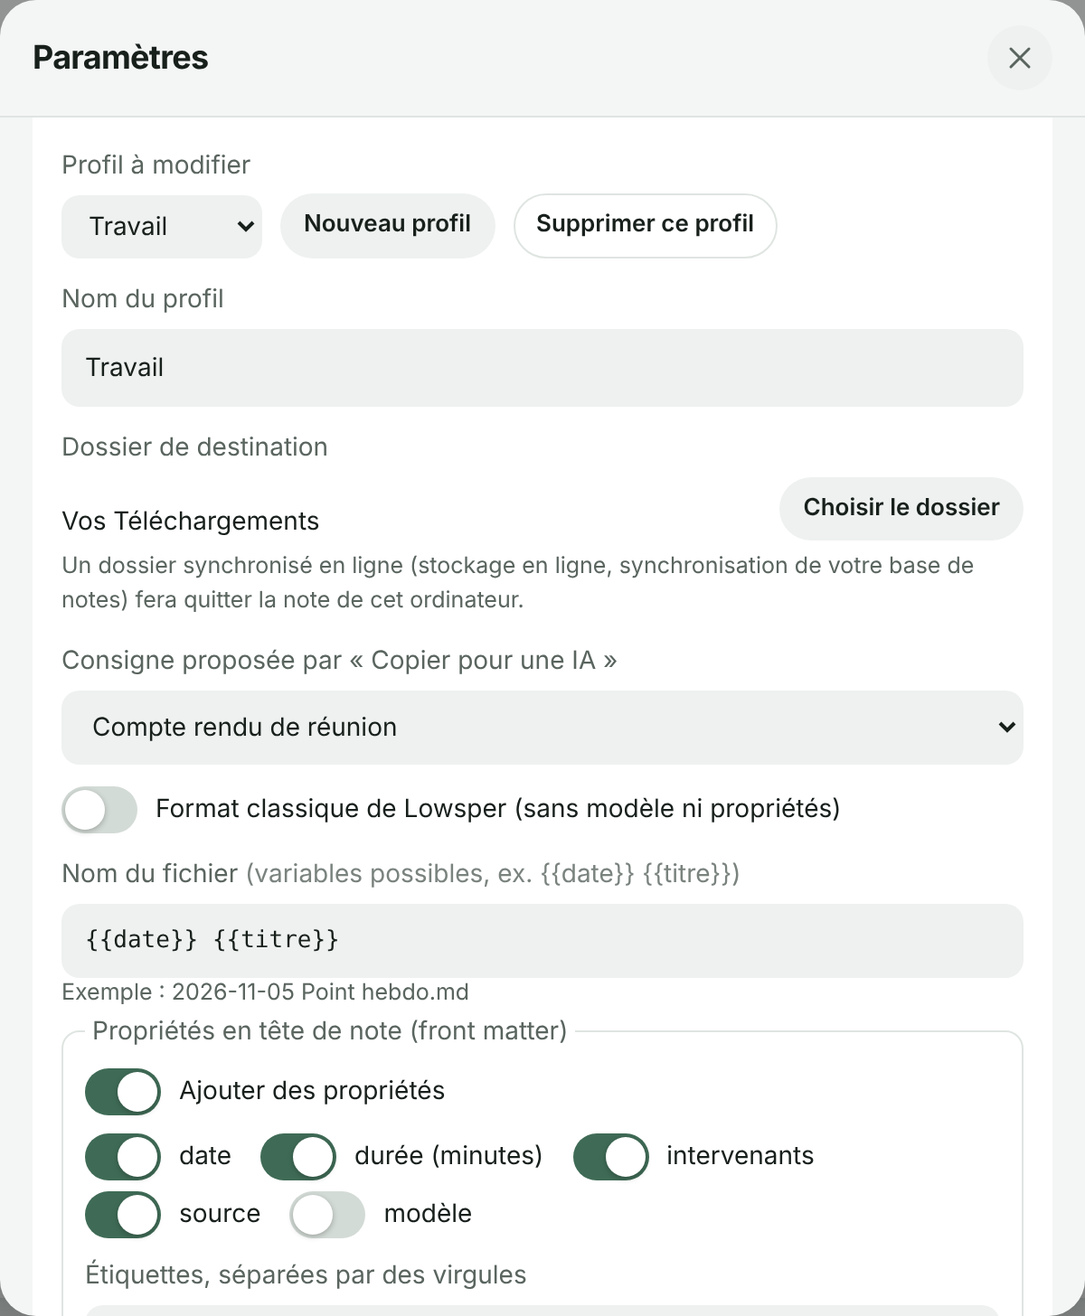
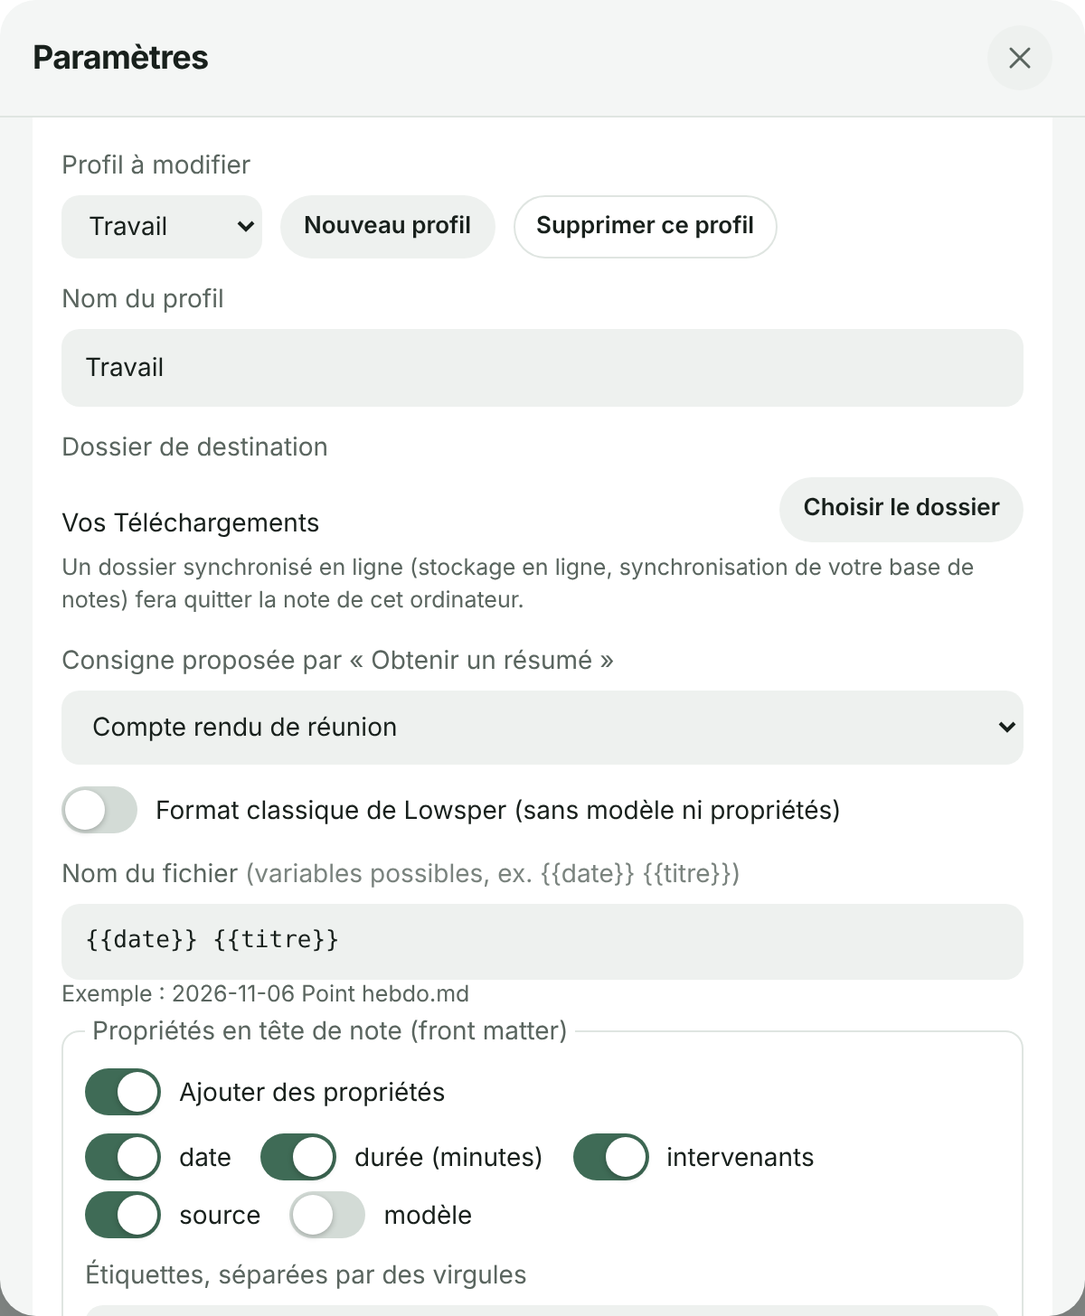
docs(fin): décision §29, README, CHANGELOG, captures et plan des lots (R6 livré)
Claude-Session: https://claude.ai/code/session_01G6rbDCjDTK12PiGGVxbWZ9

diff --git a/decision.md b/decision.md
@@ -1768,3 +1768,118 @@ gestionnaire de fenêtres, sans l'émulation de taille de Playwright :
   longues ; il est choisi avec une large marge.
 - Le contrôle d'état se met à jour dix fois par seconde, comme les barres de niveau avant lui ; il
   n'écrit dans la page que ce qui change.
+
+## 29. Refonte, lot R6 : fin de réunion et consignes réécrites
+
+**Contexte.** L'écran de fin empilait un résumé, quatre boutons (télécharger, copier, une liste
+déroulante de consignes, « Copier pour une IA »), un panneau « Intervenants détectés », la
+correction de mots dépliable, deux boutons de sortie et l'aperçu du Markdown brut. La refonte
+(`docs/refonte.md` §6, maquette validée « Fin de réunion ») le met en deux colonnes. Les consignes
+fournies, trois phrases chacune, deviennent un prompt système structuré (§7).
+
+**Écran de fin.**
+- **À gauche, le texte lisible** : titre, « Aujourd'hui, 10:02 · 12 minutes · 5 personnes », puis
+  les répliques (étiquette, heure, texte). Plus de Markdown brut. Le nombre de personnes n'est
+  affiché que si les voix ont été distinguées ; sinon il est inconnu, et il est omis.
+- **Renommage sur les répliques** : un clic sur « Intervenant 2 » le remplace par un champ ; la
+  saisie change le nom sur toutes ses répliques et réécrit la note du dossier (même délai de
+  1,5 s qu'avant). Entrée ou un clic ailleurs valide, Échap annule. La mémoire des voix apprend le
+  nom à la validation, comme le faisait le panneau. « Vous » et « Participant » ne sont pas des
+  boutons : ce ne sont pas des voix distinguées. Pendant une saisie, le texte n'est jamais
+  redessiné (le champ serait perdu) ; il l'est à la fin si une version précise d'un passage est
+  arrivée entre-temps. À la fin d'une saisie, l'étiquette revient à sa place sans redessiner le
+  texte, sinon un clic sur une autre étiquette, qui a provoqué la fin de la saisie, serait perdu.
+- **Défaut trouvé en relecture et corrigé** : chaque frappe du nom marquait le texte « à
+  redessiner », qui l'était donc juste après la saisie, entre l'appui et le relâchement du clic
+  sur l'étiquette suivante : ce clic était perdu. La saisie d'un nom ne demande plus de rendu
+  complet (seules les étiquettes changent). Le test de bout en bout ne reproduisait pas le défaut
+  avec un clic instantané ; avec un clic de 120 ms entre appui et relâchement, comme un clic
+  humain, il échoue sur l'ancien code et passe sur le nouveau (vérifié dans les deux sens).
+- **Panneau « Intervenants détectés » retiré** (choix du mainteneur). Il disait aussi le temps de
+  parole et un extrait de chaque voix ; ce n'est plus affiché. Le badge « reconnu » devient
+  l'infobulle de l'étiquette.
+- **À droite** : la carte « Note enregistrée » (où, et « Vos modifications y sont ajoutées »), qui
+  dit « Enregistrement de la note… » tant que l'écriture n'est pas finie et garde le bouton
+  « Enregistrer aussi dans le dossier » quand l'accord du navigateur manque. Puis « Et
+  maintenant ? » : « Obtenir un résumé », la consigne choisie et « Voir ce qui est copié »,
+  « Copier le texte », « Enregistrer une copie ». Puis « Corriger un mot mal reconnu », qui ouvre
+  la correction existante dans une fenêtre, et « Nouvelle réunion ».
+- **« Nouvelle réunion » ramène à l'accueil** (choix du mainteneur, comme la maquette).
+  « Démarrer la réunion suivante » disparaît ; enchaîner sans arrêter reste possible pendant la
+  réunion (« Commencer une nouvelle réunion sans arrêter », §28).
+- **Choix de la consigne** : le menu commun (`menu.js`, §27) remplace la liste déroulante native.
+  Par défaut, la consigne du profil ; un autre choix ne vaut que pour cet écran.
+- **« Voir ce qui est copié »** montre le texte produit par la même fonction que la copie : ce qui
+  est affiché est exactement ce qui part dans le presse-papiers (vérifié par le test de bout en
+  bout).
+- Restent, à leur place dans la nouvelle disposition : avis des passages rapides et des passages
+  non transcrits (en tête du texte), réunions précédentes de la session, journal technique.
+
+**Consignes réécrites comme un prompt système.**
+- **Compte rendu de réunion** : le texte anglais est celui de `docs/refonte.md` §7, au caractère
+  près. Un test unitaire relit le document et compare. Le français en est la traduction, avec les
+  libellés de la note française (« Vous », « Intervenant 1 »).
+- **Synthèse d'appel et liste d'actions** : même structure, même contexte et mêmes règles ; le rôle
+  et les sections changent (objet de l'appel, points clés, engagements, prochaines étapes ;
+  tableau action, responsable, échéance, source avec l'heure). Pour la liste d'actions, « Utilise
+  des listes à puces » est retiré des règles, puisqu'on demande un tableau. Le contexte de la
+  synthèse d'appel dit « un appel » au lieu d'« une réunion ». Un test vérifie que contexte et
+  règles sont identiques d'une consigne à l'autre.
+- **Langue** : chaque consigne demande la langue principale du transcript (l'ancienne demandait
+  « en français » ou « in English »). Les consignes restent proposées dans la langue de
+  l'interface.
+- **Place de la note** : le texte se termine par `# Transcript` puis `{{note}}`. La note, elle, ne
+  change pas.
+
+**Rétrocompatibilité des consignes (règle de §25 prolongée).**
+- Un texte enregistré est « non modifié » s'il est identique à un texte fourni actuel, dans l'une
+  ou l'autre langue, **ou à un texte fourni d'une version précédente**. Les anciens textes (3.3.0
+  à 3.5.0 en français, lot R2 en anglais) sont gardés dans `notes.js` (`LEGACY_PROMPTS`), jamais
+  affichés. Mesure : comparés par programme au code de la 3.3.0 (`git show 5a5d736`) et à celui
+  d'avant ce lot, les six textes sont identiques au caractère près.
+- Un texte non modifié passe donc au prompt système ; un texte modifié, même d'un caractère, est
+  gardé tel quel (test unitaire). Le format de `app/reglages.txt` ne change pas : aucune migration.
+- Les consignes personnelles ne sont jamais touchées.
+
+**La note en français ne change pas.** `transcript.js` n'est pas modifié, et `notes.js` ne l'est
+que dans la partie des consignes. Mesure : les tests unitaires d'avant ce lot, lancés sur le
+nouveau code, passent tous (59) sauf les trois qui vérifiaient l'ancien texte des consignes.
+
+**Libellé.** « Copier pour une IA » devient « Obtenir un résumé » partout : paramètres (« Consigne
+proposée par « Obtenir un résumé » »), sonde de l'IA intégrée, README, `SECURITY.md`.
+
+**Tests.**
+- Unitaires : structure des six consignes (titres dans l'ordre, transcript à la fin), égalité avec
+  le texte de la spécification, anciens textes reconnus, texte modifié gardé.
+- `npm run test:e2e-notes` : deux colonnes, texte sans Markdown brut, « Note enregistrée » avec
+  l'emplacement, consigne du profil proposée, copie (prompt système de synthèse d'appel puis la
+  note), « Copié », « Voir ce qui est copié » identique au presse-papiers, Échap, autre consigne
+  par le menu au clavier, renommage annulé par Échap puis validé par Entrée sur toutes les
+  répliques, note réécrite avec le lien `[[Claire]]`, « Nouvelle réunion » vers l'accueil.
+- `npm run test:e2e` : correction d'un mot dans la nouvelle fenêtre, texte de l'écran mis à jour ;
+  nom saisi puis clic direct sur une autre voix (défaut ci-dessus).
+- `npm run test:i18n` : textes de la page identiques au catalogue, aucun français en anglais.
+- Captures `fin.png`, `fin-sombre.png` et `profils.png` régénérées.
+
+**Charge du moteur** (`npm run bench`, 4 cœurs, Whisper small, même machine). Le chemin du direct
+n'est pas modifié ; mesure faite quand même, le code d'avant ce lot remis en place le temps d'un
+passage :
+
+| Passage de 25 s, Whisper small | Avant | Après |
+|---|---|---|
+| Durée (RTF) | 12 854 ms (0,514) | 12 631 ms (0,505) |
+| Second passage | 12 603 ms | 12 760 ms |
+
+  Écarts de l'ordre du bruit de la machine, dans les deux sens.
+
+**Limites.**
+- Rendu vérifié dans Chromium (Playwright) seulement, pas dans Edge ni Chrome du commerce.
+- La traduction française des consignes et la qualité des réponses obtenues avec elles n'ont pas
+  été évaluées sur un assistant d'IA : Lowsper n'en appelle aucun. Non vérifié.
+- Le texte de l'écran de fin est redessiné en entier à chaque correction. Mesure dans Chromium,
+  sur une réunion fictive de 1 h 15 (469 répliques, une toutes les 8 s) : un changement de langue
+  avec l'écran de fin affiché, mise en page comprise, prend 30 à 49 ms (médiane de 5 passages, deux
+  essais), contre 2 ms sans l'écran de fin. Imperceptible pour un clic, mais à surveiller si l'on
+  redessinait à chaque frappe : la saisie d'un nom ne redessine donc que les étiquettes.
+- Les guillemets « » du texte anglais viennent de la spécification validée ; le reste de
+  l'interface anglaise utilise “ ”.

diff --git a/README.md b/README.md
@@ -98,13 +98,22 @@ réunion qui travaille hors ligne.
    Le texte en direct est masqué par défaut : l'interrupteur « Afficher le texte pendant la
    réunion » l'affiche (choix gardé). « Commencer une nouvelle réunion sans arrêter » enchaîne
    sur la suivante sans repartager l'écran.
-7. En fin de réunion, cliquez sur **« Terminer »** (carré rouge). Le fichier `.md` est enregistré
-   dans vos Téléchargements (ou le dossier de votre profil). Nommez les intervenants si vous le
-   souhaitez ; **« Copier pour une IA »** copie la note précédée de la consigne choisie (compte
-   rendu de réunion, synthèse d'appel, liste d'actions, ou la vôtre), à coller dans l'assistant
-   de votre choix.
+7. En fin de réunion, cliquez sur **« Terminer »** (carré rouge). La note est enregistrée dans vos
+   Téléchargements (ou le dossier de votre profil) : la carte « Note enregistrée » dit où. L'écran
+   de fin montre le texte de la réunion à gauche, lisible. Pour nommer un intervenant, cliquez sur
+   son étiquette (« Intervenant 2 ») et tapez son nom : il change sur toutes ses répliques et dans
+   la note (Entrée valide, Échap annule). À droite, « Et maintenant ? » :
+   - **« Obtenir un résumé »** copie une consigne pour l'IA suivie de la note, à coller dans
+     l'assistant de votre choix. La consigne (compte rendu de réunion, synthèse d'appel, liste
+     d'actions, ou la vôtre) se choisit juste en dessous, et **« Voir ce qui est copié »** montre
+     le texte exact ;
+   - **« Copier le texte »** copie la note seule ;
+   - **« Enregistrer une copie »** la télécharge.
 
-![Écran de fin d'une réunion fictive : intervenants nommés, aperçu du transcript Markdown](docs/images/fin.png)
+   « Corriger un mot mal reconnu » ouvre la correction, et « Nouvelle réunion » ramène à
+   l'accueil.
+
+![Écran de fin d'une réunion fictive : le texte lisible avec les intervenants nommés à gauche, « Note enregistrée » et « Et maintenant ? » à droite](docs/images/fin.png)
 
 *Captures faites sur une réunion entièrement fictive (voix de synthèse), sur la machine de
 développement, lente : l'indicateur « Charge du moteur » y dépasse 100 %. Elles se régénèrent avec
@@ -185,7 +194,7 @@ La note suit la langue de l'interface au moment où la réunion commence :
 Dans un profil avec modèle de note, les noms des variables (`{{titre}}`, `{{duree}}`...) et les
 propriétés écrites en tête de note (`duree:`, `intervenants:`...) restent les mêmes dans les deux
 langues : un modèle ou une recherche dans votre base de notes ne casse pas si vous changez de
-langue. Les consignes fournies pour « Copier pour une IA » existent dans les deux langues ; une
+langue. Les consignes fournies pour « Obtenir un résumé » existent dans les deux langues ; une
 consigne que vous avez modifiée n'est jamais changée.
 
 ## À quoi ressemble le transcript
@@ -293,12 +302,21 @@ cliquez sur « Autoriser maintenant » sur l'écran d'accueil avant la réunion.
 effacé ses données (fréquent sur un poste d'entreprise), il faut désigner le dossier à nouveau.
 
 **Comment obtenir un compte rendu ?**
-Sur l'écran de fin, choisissez une consigne à côté de « Copier pour une IA », cliquez, puis collez
-dans l'assistant d'IA autorisé par votre entreprise. Trois consignes sont fournies (compte rendu de
-réunion, synthèse d'appel, liste d'actions) ; modifiez-les ou créez les vôtres dans les paramètres,
+Sur l'écran de fin, cliquez sur « Obtenir un résumé », puis collez dans l'assistant d'IA autorisé
+par votre entreprise. Trois consignes sont fournies (compte rendu de réunion, synthèse d'appel,
+liste d'actions), écrites comme un prompt système : rôle, contexte, tâche, règles, puis le
+transcript. Elles demandent de répondre dans la langue principale du transcript, de ne rien
+inventer (ni nom, ni chiffre, ni date) et de signaler un passage douteux. « Voir ce qui est copié »
+montre le texte exact avant de le coller. Modifiez-les ou créez les vôtres dans les paramètres,
 section « Consignes pour l'IA », et rattachez-en une à chaque profil. Attention : coller le
 transcript dans un assistant en ligne le fait sortir de l'ordinateur ; c'est votre choix, pas celui
 de Lowsper.
+
+**J'avais modifié une consigne fournie. Est-elle remplacée par la nouvelle version ?**
+Non. Une consigne que vous avez modifiée n'est jamais changée, même d'un seul caractère. Seules
+les consignes laissées telles quelles passent au nouveau texte. Pour obtenir le nouveau texte
+quand même, utilisez « Rétablir le texte d'origine » dans les paramètres (votre version est alors
+perdue : copiez-la avant si besoin).
 
 **Lowsper peut-il résumer lui-même la réunion, sans rien envoyer ?**
 Pas encore. Un petit modèle de langage dans la page a été mesuré : il invente des faits en
@@ -446,7 +464,7 @@ et `decision.md`) :
 2. **Langues parlées multiples et vocabulaires métier élargis**, après mesure de la qualité.
 3. **Mémoire des voix plus fiable** d'une visio à l'autre, après mesure.
 4. **Résumé local** : la piste de l'IA intégrée du navigateur reste à l'étude (`decision.md`
-   §22 et §23). D'ici là, « Copier pour une IA » reste la voie recommandée.
+   §22 et §23). D'ici là, « Obtenir un résumé » reste la voie recommandée.
 
 Une idée, un problème ? Ouvrez une [issue](https://github.com/PercyaDJ/Lowsper/issues/new/choose),
 ou posez votre question dans les [discussions](https://github.com/PercyaDJ/Lowsper/discussions).

diff --git a/AGENTS.md b/AGENTS.md
@@ -132,7 +132,7 @@ Changer de révision d'un modèle : `node fetch-model.mjs <id> --update`, puis r
 | `Lowsper.html` | Page à ouvrir : interface et politique de sécurité (CSP) |
 | `app/js/theme.js` | Thème clair ou sombre (système par défaut, choix mémorisé), chargé dans `<head>` |
 | `app/js/meeting.js` | Contrôle d'état de la réunion (micro, son, texte) et ses seuils (`decision.md` §28) |
-| `app/js/menu.js` | Menu dessiné par Lowsper, composant commun (clavier, lecteur d'écran) : langue, « Enregistrer la note dans » |
+| `app/js/menu.js` | Menu dessiné par Lowsper, composant commun (clavier, lecteur d'écran) : langue, « Enregistrer la note dans », consigne de « Obtenir un résumé » |
 | `app/js/recommend.js` | Détection du PC, moteurs autorisés, modèle recommandé au premier lancement (`decision.md` §26) |
 | `app/js/i18n.js` | Langue de l'interface : catalogues `fr` et `en`, `t(clé, variables)`, attributs `data-i18n`, chargé avant les autres scripts |
 | `app/js/browser.js` | Reconnaissance du navigateur (Brave, Edge, Chrome, Firefox) et messages quand l'écriture dans un dossier est impossible |
@@ -142,12 +142,12 @@ Changer de révision d'un modèle : `node fetch-model.mjs <id> --update`, puis r
 | `app/js/audiofile.js` | Fichiers importés : lecteurs de conteneur (WAV, MP3, AAC, M4A, Ogg, WebM), décodage WebCodecs en flux |
 | `app/js/speakers.js` | Distinction, regroupement et mémoire des voix ; voix du micro (anti-écho) |
 | `app/js/transcript.js` | Assemblage, sigles, filtres, couverture, Markdown, sauvegarde de secours |
-| `app/js/notes.js` | Profils de sortie : modèle de note, nom de fichier, front matter, liens, dossier de destination |
+| `app/js/notes.js` | Profils de sortie : modèle de note, nom de fichier, front matter, liens, dossier de destination ; consignes pour l'IA (textes fournis dans `i18n.js`, anciens textes reconnus pour la rétrocompatibilité, `decision.md` §29) |
 | `app/js/localai.js` | Sonde de l'IA intégrée du navigateur (expérimental) : disponibilité, essai sur une réunion fictive, rapport |
 | `app/js/vocabulary.js` | Vocabulaires métier et contexte donné à Whisper |
 | `app/js/installer.js` | Téléchargement vérifié du modèle : seul code réseau de l'application |
 | `app/js/settings.js` | Copie des réglages dans `app/reglages.txt` |
-| `app/js/app.js` | Contrôleur de l'interface, file de transcription, cycle de la réunion |
+| `app/js/app.js` | Contrôleur de l'interface, file de transcription, cycle de la réunion, écran de fin (texte lisible, renommage des voix sur les répliques) |
 | `app/css/` | Styles (thèmes clair et sombre) |
 | `app/engine/`, `app/manifest.js` | Générés par `tools/build.mjs` : ne pas modifier à la main |
 | `app/models/` | Modèles installés chez l'utilisateur (non versionnés) |

diff --git a/docs/lots.md b/docs/lots.md
@@ -32,7 +32,7 @@ Chaque lot respecte `AGENTS.md`, et en particulier :
 | R3 | Premier lancement guidé | Non publiée | Livré |
 | R4 | Accueil | Non publiée | Livré |
 | R5 | Réunion : mini-fenêtre et fenêtre agrandie | Non publiée | Livré |
-| R6 | Fin de réunion et consignes réécrites | Non publiée | À faire |
+| R6 | Fin de réunion et consignes réécrites | Non publiée | Livré |
 | R7 | Réglages en onglets | Non publiée | À faire |
 | R8 | Langues parlées multiples et vocabulaires métier élargis | Non publiée | À faire |
 | R9 | Mémoire des voix d'une visio à l'autre | 4.0.0 | À faire |
@@ -136,7 +136,12 @@ Voir `refonte.md` §4 et §5.
 - **Performance** : mesurer la charge du moteur avant et après (`npm run bench`). Le direct ne
   doit pas ralentir.
 
-## R6 : fin de réunion et consignes
+## R6 : fin de réunion et consignes (livré)
+
+Livré, voir `decision.md` §29. Choix du mainteneur en cours de lot : « Nouvelle réunion » ramène à
+l'accueil (comme la maquette), et le panneau « Intervenants détectés » est retiré, le renommage se
+faisant sur les répliques. La synthèse d'appel et la liste d'actions gardent le contexte et les
+règles du compte rendu ; leur rôle et leurs sections changent.
 
 Voir `refonte.md` §6 et §7.
 - **Disposition** : deux colonnes. Le texte lisible à gauche, renommage des voix directement sur
@@ -182,7 +187,7 @@ Voir `refonte.md` §9.
 
 ## Texte pour ouvrir la session suivante
 
-Remplacer `R6` par le lot voulu, et sa ligne d'objectif par celle du tableau.
+Remplacer `R7` par le lot voulu, et sa ligne d'objectif par celle du tableau.
 
 ```text
 Tu travailles sur le dépôt PercyaDJ/Lowsper (application de transcription de réunions 100 %
@@ -192,8 +197,7 @@ Avant tout, lis AGENTS.md (règles non négociables), docs/refonte.md (spécific
 refonte) et docs/lots.md (plan des lots). Les maquettes validées sont sur
 https://claude.ai/artifact/KeT2Rk6qFNieqFozpFJxMx : lis-les si tu as l'outil Artifact.
 
-Ta mission : réaliser le lot R6 de docs/lots.md (fin de réunion et consignes réécrites),
-et seulement ce lot. Respecte toutes les règles d'AGENTS.md. Mesure au lieu de supposer, et si
+Ta mission : réaliser le lot R7 de docs/lots.md (réglages en onglets), et seulement ce lot. Respecte toutes les règles d'AGENTS.md. Mesure au lieu de supposer, et si
 un point n'est pas vérifiable, écris-le comme non vérifié.
 
 Si un choix important n'est pas couvert par les spécifications, pose-moi la question avant

diff --git a/CHANGELOG.md b/CHANGELOG.md
@@ -23,6 +23,29 @@ Les détails techniques et les mesures sont dans `decision.md`.
 - Consignes fournies pour « Copier pour une IA » en français et en anglais. Une consigne modifiée
   par l'utilisateur ne change jamais.
 
+### Ajouté (lot R6)
+- Écran de fin en deux colonnes (decision.md §29). À gauche, le texte de la réunion, lisible (plus
+  de Markdown brut) : un clic sur « Intervenant 2 » permet de taper le vrai nom, qui change
+  partout. À droite, « Note enregistrée » (mise à jour à chaque correction) et « Et maintenant ? » :
+  « Obtenir un résumé », « Voir ce qui est copié », « Copier le texte », « Enregistrer une copie »,
+  puis « Corriger un mot mal reconnu » et « Nouvelle réunion ».
+
+### Modifié (lot R6)
+- Les trois consignes fournies (compte rendu de réunion, synthèse d'appel, liste d'actions) sont
+  réécrites comme un prompt système : rôle, contexte, tâche, règles, puis le transcript, en
+  français et en anglais. Elles demandent la langue principale du transcript. Une consigne que
+  vous aviez laissée telle quelle passe au nouveau texte ; une consigne modifiée, même d'un
+  caractère, est gardée telle quelle.
+- « Copier pour une IA » devient « Obtenir un résumé ». La consigne se choisit dans un menu
+  dessiné par Lowsper, sous le bouton.
+- « Nouvelle réunion » ramène à l'accueil : « Démarrer la réunion suivante » et « Retour à
+  l'accueil » sont fusionnés (choix du mainteneur). Pour enchaîner sans arrêter, « Commencer une
+  nouvelle réunion sans arrêter » reste dans la fenêtre de réunion.
+- Le panneau « Intervenants détectés » disparaît : on renomme directement sur les répliques. La
+  mémoire des voix apprend le nom quand la saisie est validée, comme avant.
+- « Corriger un mot mal reconnu » s'ouvre dans une fenêtre.
+- La note en français produite par le format classique ne change pas.
+
 ### Ajouté (lot R5)
 - Fenêtre de réunion : grand chronomètre, nom de la réunion modifiable, contrôle d'état en langage
   simple (micro, son de la réunion, texte écrit) avec « Comment corriger », trois gros boutons

diff --git a/README.en.md b/README.en.md
@@ -50,6 +50,11 @@ Settings, « Display », « App language »). The full documentation is in Frenc
    full window shows a plain-language status check: « Hearing you », « Coming through » (or
    « Nothing is coming through » with « How to fix »), and whether the text is up to date.
 5. Click « Stop »: the `.md` transcript lands in your Downloads folder (or your profile folder).
+   The end screen shows the readable text on the left: click « Speaker 2 » to type the real
+   name, and it changes everywhere. On the right, « What next? »: « Get a summary » copies
+   instructions written like a system prompt (role, context, task, rules, then the transcript),
+   to paste into the AI assistant of your choice; « See what is copied » shows the exact text.
+   Instructions you have edited are never replaced.
 
 Recognition is tuned for French (with an English and an automatic French/English mode). The note
 follows the app language when the meeting starts: in English, its header and labels are

diff --git a/SECURITY.md b/SECURITY.md
@@ -34,7 +34,7 @@ Seule la dernière version publiée (voir `CHANGELOG.md`) reçoit des correctifs
   est une décision de l'utilisateur.
 - **Le stockage du navigateur.** La sauvegarde de secours du transcript et les empreintes vocales
   mémorisées y sont lisibles par toute personne ayant accès à la session.
-- **Ce que l'utilisateur fait du texte.** Le bouton « Copier pour une IA » met le transcript dans
+- **Ce que l'utilisateur fait du texte.** Le bouton « Obtenir un résumé » met le transcript dans
   le presse-papiers. S'il est collé dans un service en ligne, il quitte le poste, par choix de
   l'utilisateur.
 - **Le modèle de langage du navigateur.** La sonde « IA intégrée » (expérimental) ne lit qu'une
